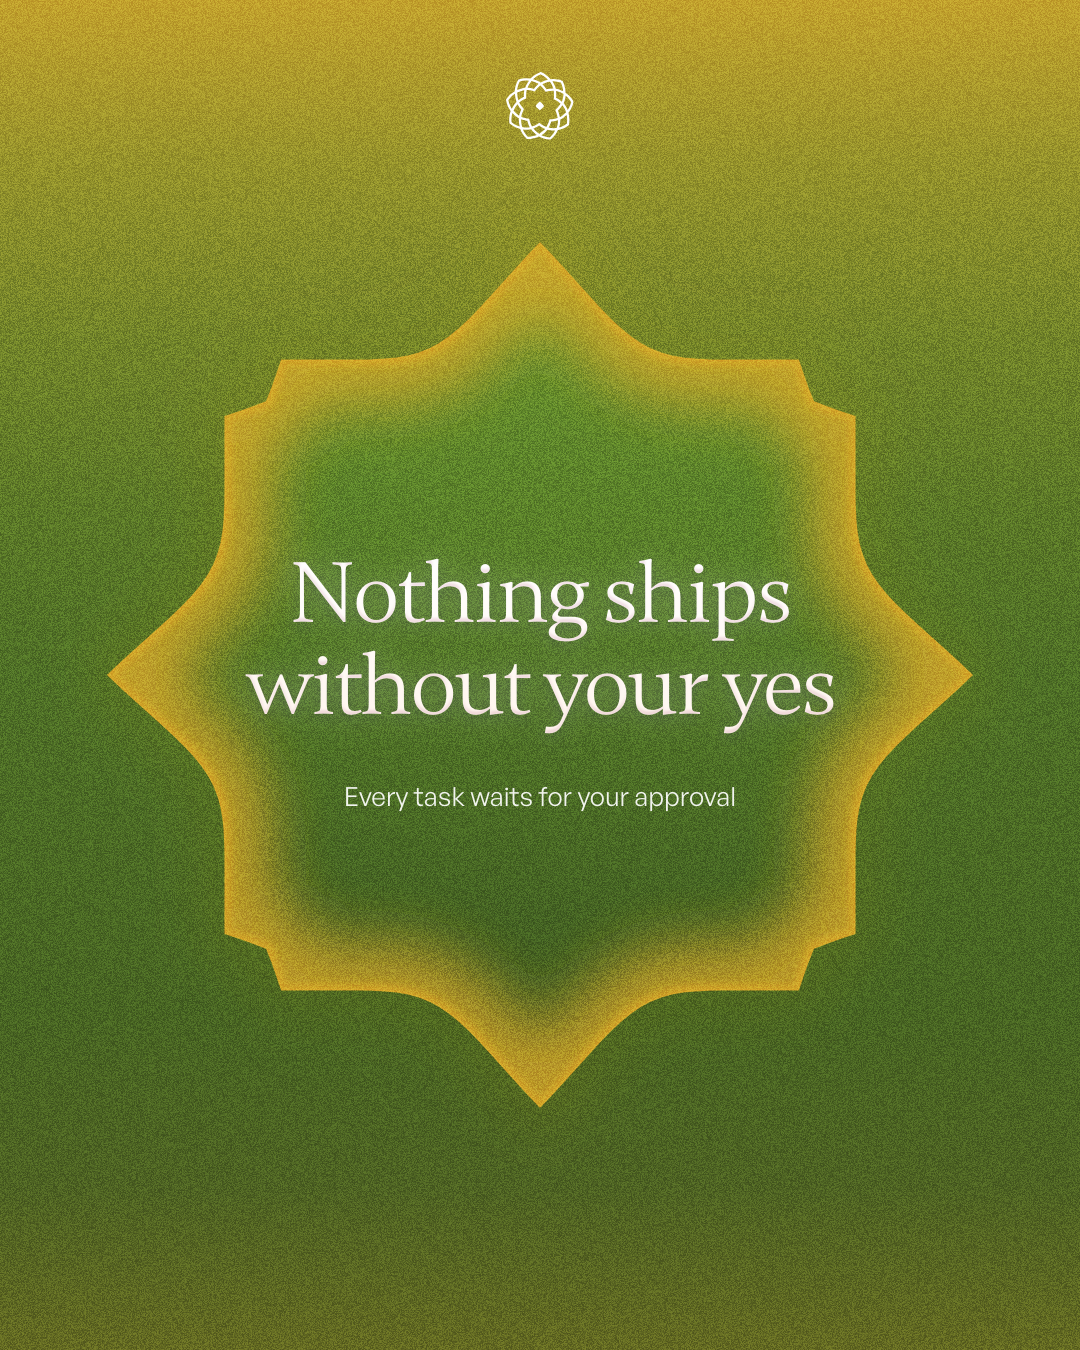
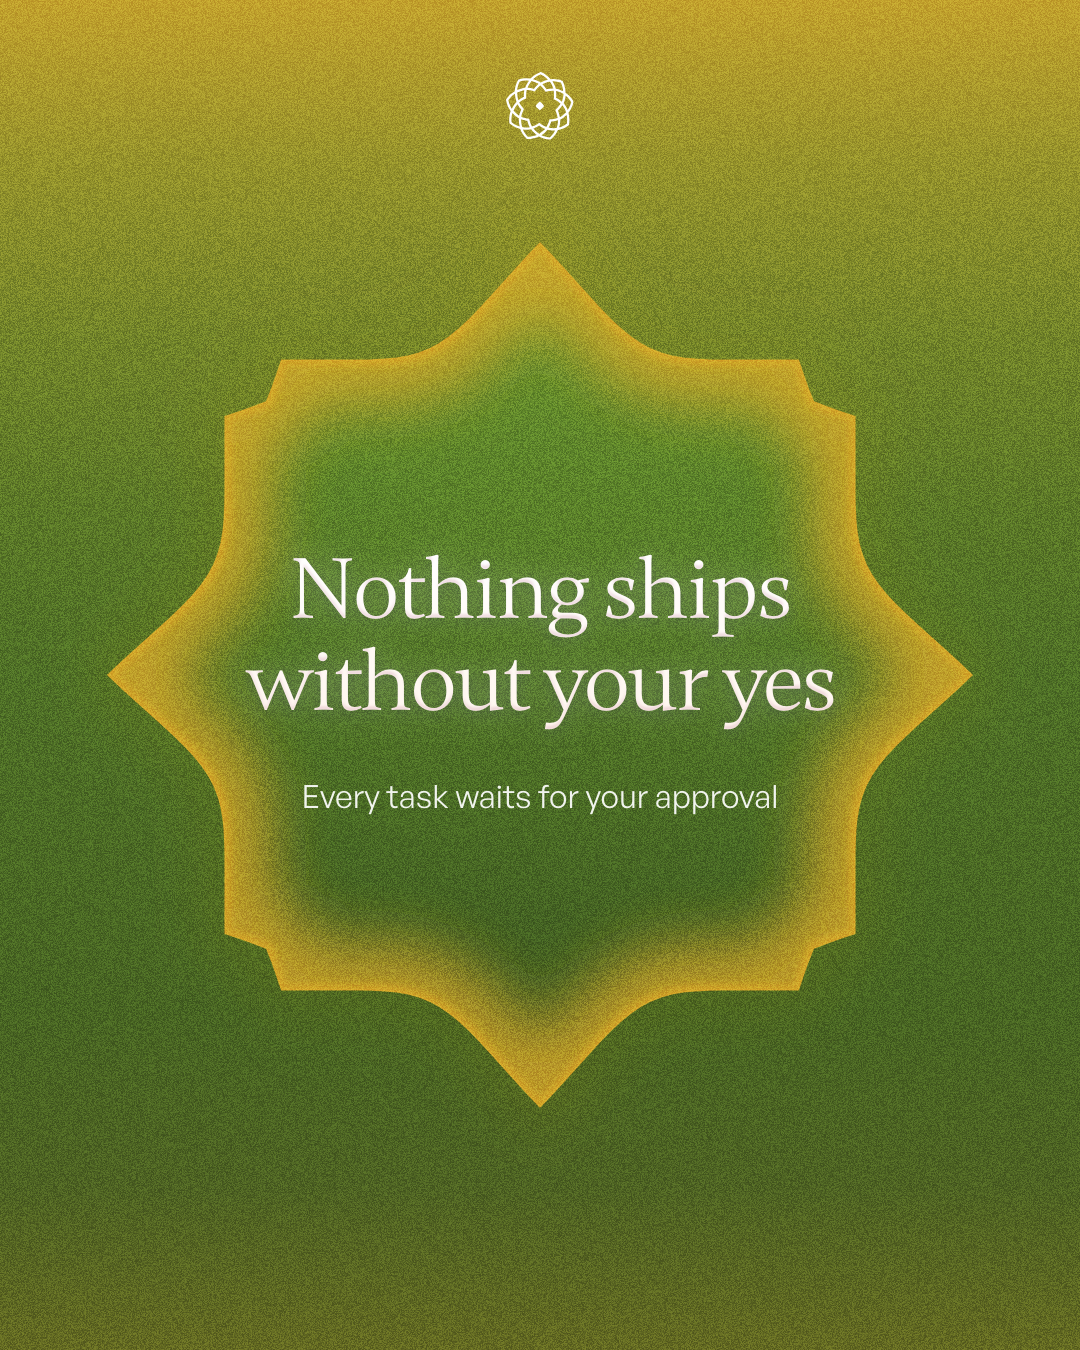
your-yes portrait: supporting line 32px (lineSize option)

Changed region(s): [[0.2139, 0.4044, 0.7944, 0.6222], [0.5194, 0.56, 0.7028, 0.6222]]

diff --git a/src/components/sarvam/composer.tsx b/src/components/sarvam/composer.tsx
@@ -31,7 +31,8 @@ export type BannerSpec = {
   logo?: "wordmark" | "logomark";  // logomark = the official lotus symbol, used alone (logo.md: never beside the wordmark)
   card?: "plan" | "research" | "review";   // product moment shown inside the device (split / stacked only); arch-window shows it through the arch
   icon?: EmblemIcon;               // emblem device: the one object that stands for the subject
-  titleSize?: { portrait?: number; landscape?: number };   // set the headline size directly (px); the text box widens to hold it, centred
+  titleSize?: { portrait?: number; landscape?: number };
+  lineSize?: { portrait?: number; landscape?: number };    // set the supporting line size directly (px)   // set the headline size directly (px); the text box widens to hold it, centred
   whole?: boolean;                 // medallion-glow: keep the whole shape in frame on LinkedIn too (no vertical bleed)
   divider?: string;                // a /studio divider preset ABOVE the headline (always the first thing in the text block), drawn in the spectrum
   horizon?: "top" | "bottom";      // the hero's Sun gradient as a horizon from one edge, reaching about half way
@@ -777,7 +778,8 @@ function BannerImpl({ spec, format, id }: { spec: BannerSpec; format: BannerForm
   }
   const k = best === -1 ? STEPS[STEPS.length - 1] : STEPS[best];
   const forced = spec.titleSize?.[format === "landscape" ? "landscape" : "portrait"];
-  const S = { p: forced ?? Math.round(base.p * k), s: Math.round(Math.max(base.s * k, land ? 20 : 28)), gap: base.gap };
+  const forcedLine = spec.lineSize?.[format === "landscape" ? "landscape" : "portrait"];
+  const S = { p: forced ?? Math.round(base.p * k), s: forcedLine ? forcedLine / (land ? 1 : 0.94) : Math.round(Math.max(base.s * k, land ? 20 : 28)), gap: base.gap };
   if (forced) {
     // widen the text box (centred) to the widest forced line at this size, so the title isn't re-wrapped smaller
     const need = Math.max(...spec.primary.split("\n").map((l) => l.length)) * forced * charW(pFont, pWeight, spec.primary) * 1.04;

diff --git a/process/prompt-log.md b/process/prompt-log.md
@@ -527,3 +527,4 @@ Entry format:
   - 96px: "w" and "s" landed on the gold glow band, lowering the contrast.
   - Settled at **88px** (from 63px): every glyph sits on the green core.
 - QA flags 88 < 96 (Meta minimum) for this banner. That's accepted as a by-eye exception, the most the shape allows.
+- Follow-up (verbatim): "Increase the size of the description text size in portrait by a bit." → new `lineSize` option; the portrait supporting line is now 32px (was 28px). It stays on one line inside the green core.
